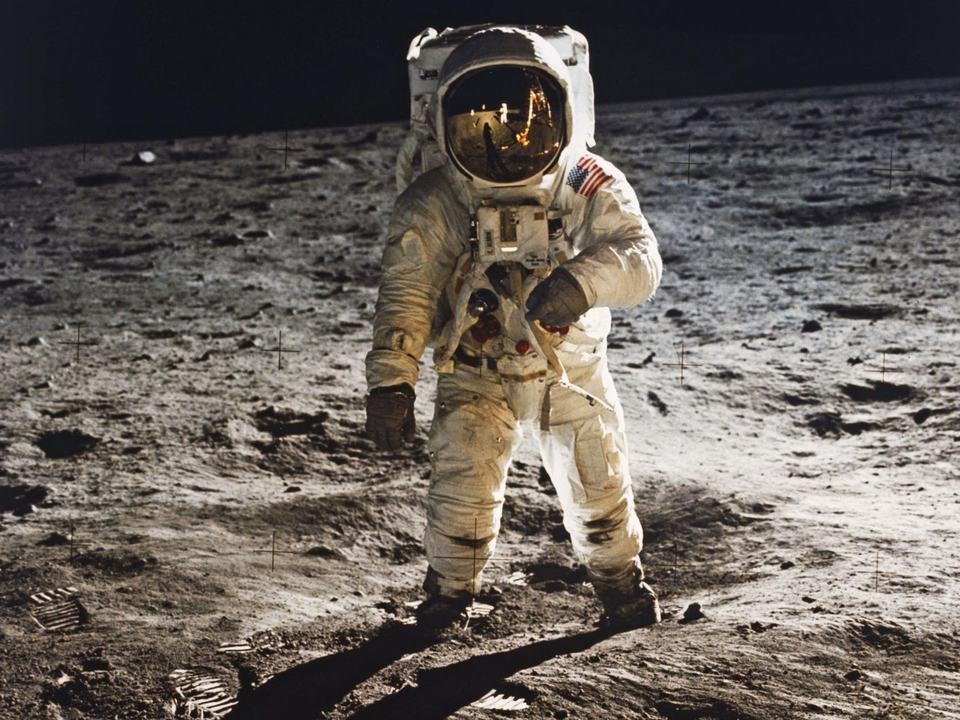
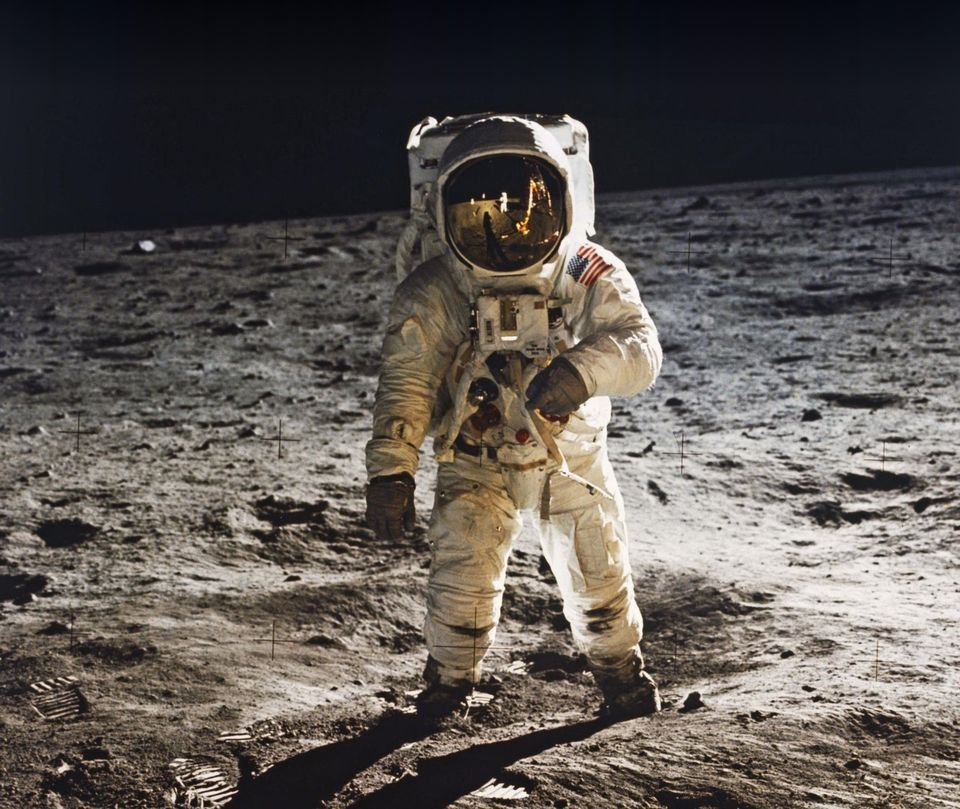
scoring changes

diff --git a/index.html b/index.html
@@ -93,7 +93,7 @@ function spend(){
  const caps=S.caps||[0,90,40],exp=S.budget*(new Date().getDay()+1)/7,pace=tot<=exp?'On pace · '+money(exp-tot)+' of slack today':money(tot-exp)+' ahead of pace';const cn={};S.spend.forEach(x=>{const k=x.t.toLowerCase();cn[k]=(cn[k]||0)+1});const top=Object.keys(cn).filter(t=>!/['"]/.test(t)).sort((a,b)=>cn[b]-cn[a]).slice(0,5).map(t=>`<button class="chip" onclick="document.getElementById('t').value='${esc(t)}';sugCat('${esc(t)}')">${esc(t)}</button>`).join('');
  const cats=CATS.map(([n,c],i)=>{const v=wk.filter(x=>x.c===n).reduce((s,x)=>s+x.a,0),cp=caps[i];return`<div class="item"><div class="row"><span><i class="dot" style="background:${c}"></i>${sn(n)}</span><span><b>${money(v)}</b>${i?` / <input class="kg" type="number" value="${cp}" onchange="S.caps=S.caps||[0,90,40];S.caps[${i}]=+this.value;save();render()">`:''}</span></div>${i?`<div class="bar ${v>cp?'over':''}" style="height:6px;margin:6px 0 0"><i style="width:${Math.min(100,v/cp*100)}%"></i></div>`:''}</div>`}).join('');
  const rec=[...S.spend].sort((x,y)=>y.d.localeCompare(x.d)).slice(0,15).map(x=>`<div class="item row"><span><b>${esc(x.t)}</b><br><span class="mu">${x.d} · ${sn(x.c)}</span></span><span>${money(x.a)}<button class="x" onclick="del('spend','${x.id}')">×</button></span></div>`).join('');
- return`${hero('hero-spend.jpg','960/720','Spending',null,.8,'b',36)}<div class="sub">Week ${a} – ${b} · Sun–Sat</div>
+ return`${hero('hero-spend.jpg','960/809','Spending',null,.82,'b')}<div class="sub">Week ${a} – ${b} · Sun–Sat</div>
  <div class="card"><div class="mu">This week</div><div class="big">${money(tot)}</div><div class="bar ${rem<0?'over':''}"><i style="width:${Math.min(100,tot/S.budget*100)}%"></i></div><div class="row mu"><span>${rem>=0?money(rem)+' left':money(-rem)+' over'}</span><span>of ${money(S.budget)}</span></div><div class="mu">${pace}</div></div>
  <div class="card row"><div><div class="mu">Balance</div><div class="big">${money(S.start-all)}</div></div><div style="text-align:right"><div class="mu">Frivolous ratio</div><div class="big">${all?pc(fr/all):'0%'}</div></div></div>
  <div class="card"><b>Weekly category caps</b>${cats}</div>
@@ -140,17 +140,18 @@ setInterval(()=>{const el=document.getElementById('lf');if(el)el.textContent=liv
 function yT(v){const y=ydate(today);(S.food[y]=S.food[y]||{}).dt=v;save();render()}
 function fhManual(v){const e=(S.food[today]=S.food[today]||{});e.fm=v!=='';e.fh=v===''?undefined:+v;save();render()}
 /* FAITH */
-const H=[['rise','Arise 6:30 AM','w'],['ret','Retire 10:30 PM','c'],['plan','Daily planning','c'],['jrn','Journaling','c'],['pers','Personal scripture (≥30m)','m',30],['comp','Companion study (≥30m)','m',30],['fs','Family scripture','c'],['fp','Family prayer','c'],['lang','Language study','m',1],['gtr','Guitar','m',1]];
-const CORE=['rise','pers','comp','fp'],wt=h=>CORE.includes(h[0])?2:1,WT=H.reduce((s,h)=>s+wt(h),0);
-/* wake: full credit at/before 6:30, linear to 0 at 8:00, bonus (up to 1 pt) for waking before 6:30 (max at 5:30) */
+const H=[['rise','Arise 6:30 AM','w'],['ret','Retire 10:30 PM','c'],['plan','Daily planning','c'],['jrn','Journaling','c'],['pers','Personal study','m',30],['comp','Companion study','c'],['fs','Family scripture','c'],['fp','Family prayer','c'],['skill','Skills','s',30]];
+const CORE=['rise','fs','fp'],wt=h=>CORE.includes(h[0])?2:1,WT=H.reduce((s,h)=>s+wt(h),0);
 const WM=e=>{const m=/^(\d{1,2}):(\d{2})$/.exec((e&&e.wk)||'');return m?(+m[1])*60+(+m[2]):null};
 const wakeFrac=e=>{e=e||{};const w=WM(e);return w==null?(e.rise?1:0):w>=480?0:w<=390?1:(480-w)/90};
 const wakeBonus=e=>{const w=WM(e);return w==null||w>=390?0:Math.min(1,(390-w)/60)};
-/* mental diet: net (uplifting - distracting) minutes; 1 pt per 60 net min, positive capped at 3 pts, negative uncapped */
 const MD_PER_MIN=1/60,MD_CAP=3;
 const mdPts=e=>{e=e||{};const n=((+e.up||0)-(+e.dis||0))*MD_PER_MIN;return n>0?Math.min(n,MD_CAP):n};
-const hd=(e,h)=>h[2]==='w'?wakeFrac(e)>=1:h[2]==='c'?!!e[h[0]]:(+e[h[0]]||0)>=h[3];
-const pts=e=>{e=e||{};return H.reduce((s,h)=>s+(h[2]==='w'?wt(h)*wakeFrac(e):hd(e,h)?wt(h):0),0)+wakeBonus(e)+mdPts(e)};
+const mn=(e,h)=>h[2]==='s'?(+e.lang||0)+(+e.gtr||0):(+e[h[0]]||0);
+const hd=(e,h)=>h[2]==='w'?wakeFrac(e)>=1:h[2]==='c'?!!e[h[0]]:mn(e,h)>=h[3];
+/* study/skills: partial credit up to 30 min, then up to +0.5 pt extra by 60 min */
+const hp=(e,h)=>h[2]==='w'?wt(h)*wakeFrac(e):h[2]==='c'?(hd(e,h)?wt(h):0):wt(h)*Math.min(mn(e,h)/h[3],1)+.5*Math.min(Math.max(mn(e,h)-h[3],0)/30,1);
+const pts=e=>{e=e||{};return H.reduce((s,h)=>s+hp(e,h),0)+wakeBonus(e)+mdPts(e)};
 const dayPct=e=>Math.max(0,Math.min(1,pts(e)/WT));
 function wakeNow(){setV('faith','wk',nowT())}
 function faith(){
@@ -158,16 +159,14 @@ function faith(){
  const logged=h=>keys.filter(d=>hd(F[d],h)).length,sum=f=>keys.reduce((s,d)=>s+(+F[d][f]||0),0);
  const el=Math.min(54,Math.max(1,Math.round((new Date(today)-new Date('2026-10-05'))/864e5)+1)),tot=keys.reduce((s,d)=>s+dayPct(F[d]),0),adh=tot/el,adhF=tot/54;
  const chips=H.filter(h=>h[2]==='c').map(h=>`<button class="chip ${e[h[0]]?'on':''}" onclick="setV('faith','${h[0]}',${!e[h[0]]})">${e[h[0]]?'✓ ':''}${h[1]}</button>`).join('');
- const mins=[['pers','Personal study (min)'],['comp','Companion study (min)'],['lang','Language (min)'],['gtr','Guitar (min)'],['up','Uplifting media (min)'],['dis','Distracting media (min)']].map(([f,l])=>`<div><div class="mu">${l}</div>${num('faith',f,'0')}</div>`).join('');
+ const mins=[['pers','Personal study (min)'],['lang','Language (min)'],['gtr','Guitar (min)'],['up','Uplifting media (min)'],['dis','Distracting media (min)']].map(([f,l])=>`<div><div class="mu">${l}</div>${num('faith',f,'0')}</div>`).join('');
  const bars=H.map(h=>{const l=logged(h);return`<div class="item"><div class="row"><span>${h[1]}</span><span class="mu">${l}/${el}</span></div><div class="bar" style="margin:6px 0 0;height:6px"><i style="width:${Math.min(100,l/el*100)}%"></i></div></div>`}).join('');
- const wf=wakeFrac(e),wb=wakeBonus(e),mp=mdPts(e),net=(+e.up||0)-(+e.dis||0);
- const wakeRow=`<div class="item row" style="border-top:0"><span>Arise · <span class="mu">${WM(e)!=null?(wf>=1?'full credit':wf>0?Math.round(wf*100)+'% credit':'no credit')+(wb>0?' + early bonus':''):'full by 6:30 · none at 8:00'}</span></span><span><button class="chip" onclick="wakeNow()">Now</button> <input type="time" class="kg" style="width:112px!important" value="${esc(e.wk)}" onchange="setV('faith','wk',this.value)"></span></div>`;
- const mdNote=`Mental diet today: ${net>0?'+':''}${net} net min → ${mp>=0?'+':''}${(mp/WT*100).toFixed(0)}% of the day. Distracting time cancels uplifting, then subtracts. Day caps at 100%.`;
+  const wakeRow=`<div class="item row" style="border-top:0;flex-wrap:nowrap"><span>Arise</span><span style="white-space:nowrap"><button class="chip" onclick="wakeNow()">Now</button> <input type="time" class="kg" style="width:112px!important" value="${esc(e.wk)}" onchange="setV('faith','wk',this.value)"></span></div>`;
  const D=days7();
- return`${hero('hero-faith.jpg','620/400','Faith &amp; Discipleship',null,.95,'b',36)}<div class="sub">“Arise early, that your bodies and your minds may be invigorated.” — D&C 88:124</div>
- <div class="card"><div class="mu">Today</div><div class="big">${pc(dayPct(e))}</div><div class="bar"><i style="width:${dayPct(e)*100}%"></i></div>${chart(D.map(d=>dayPct(F[d])),1,v=>v>=.8,.8)}<div class="mu" style="margin-top:6px">Goal ≥80% · core habits (rise, study, family prayer) count double</div></div>
- <div class="card"><b>Check off today</b>${wakeRow}<div class="chips">${chips}</div><div class="f" style="margin-top:12px">${mins}</div><div class="mu" style="margin-top:8px">${mdNote}</div><input placeholder="Media topics / notes" value="${esc(e.n)}" onchange="setV('faith','n',this.value)" style="margin-top:8px"></div>
- <div class="card"><b>54-day challenge</b><div class="f mu" style="margin-top:8px"><span>Since start <b>${(adh*100).toFixed(0)}%</b></span><span>Full 54 days <b>${(adhF*100).toFixed(0)}%</b></span><span>Scripture <b>${((sum('pers')+sum('comp'))/60).toFixed(1)}h</b></span><span>Skills <b>${((sum('lang')+sum('gtr'))/60).toFixed(1)}h</b></span><span>Uplifting <b>${(sum('up')/60).toFixed(1)}h</b></span><span>Distracting <b>${(sum('dis')/60).toFixed(1)}h</b></span></div></div>
+ return`${hero('hero-faith.jpg','620/457','Faith &amp; Discipleship',null,.955,'b')}<div class="sub">“Arise early, that your bodies and your minds may be invigorated.” — D&C 88:124</div>
+ <div class="card"><div class="mu">Today</div><div class="big">${pc(dayPct(e))}</div><div class="bar"><i style="width:${dayPct(e)*100}%"></i></div>${chart(D.map(d=>dayPct(F[d])),1,v=>v>=.8,.8)}</div>
+ <div class="card"><b>Check off today</b>${wakeRow}<div class="chips">${chips}</div><div class="f" style="margin-top:12px">${mins}</div><input placeholder="Media topics / notes" value="${esc(e.n)}" onchange="setV('faith','n',this.value)" style="margin-top:8px"></div>
+ <div class="card"><b>54-day challenge</b><div class="f mu" style="margin-top:8px"><span>Since start <b>${(adh*100).toFixed(0)}%</b></span><span>Full 54 days <b>${(adhF*100).toFixed(0)}%</b></span><span>Scripture <b>${((sum('pers')+keys.reduce((s,d)=>s+(typeof F[d].comp==='number'?F[d].comp:0),0))/60).toFixed(1)}h</b></span><span>Skills <b>${((sum('lang')+sum('gtr'))/60).toFixed(1)}h</b></span><span>Uplifting <b>${(sum('up')/60).toFixed(1)}h</b></span><span>Distracting <b>${(sum('dis')/60).toFixed(1)}h</b></span></div></div>
  <div class="card"><b>Habits</b>${bars}</div>`}
 /* FITNESS */
 const WK="2026-09-26|Upper body|174|benchpress:40:3x10,dumbbell rows:10:3x10,overhead press:10:3x10,pull-ups:0:3x8,dumbbell curls:10:3x10,tricep extensions:10:3x10#2026-09-30|Legs|172|barbell squats:50:3x10,RDL:50:3x10,dumbbell lunges:10:3x10,calf raises:0:3x10,hanging leg raises:0:3x10#2026-10-01|Upper body|172|incline press:10:3x10,dumbbell rows:10:3x10,lateral raises:3:3x10,chin-ups:0:3x8,hammer curls:10:3x10,dips:0:3x8#2026-10-05|Legs|174|deadlifts:10:3x5,bulgarian split squats:10:3x10,goblet squats:10:3x10,calf raises:0:3x10,weighted plank:5:3x1min,hanging windshield wipers:0:3x10#2026-10-06|Upper body|174|benchpress:50:3x10,dumbbell rows:12:3x10,overhead press:10:3x10,pull-ups:0:3x8,dumbbell curls:10:3x10,tricep extensions:12:3x10#2026-10-08|Upper body|175|benchpress:50:3x10,incline press:12:3x8,overhead press:12:3x8,dips:0:3x8,lateral raises:4:3x10,tricep extensions:12:3x10#2026-10-09|Legs|174|barbell squats:50:3x5,deadlifts:50:3x5,bulgarian split squats:10:3x10,calf raises:0:3x10,hanging leg raises:0:3x10#2026-10-13|Upper body|173|pull-ups:0:3x8,dumbbell rows:12:3x8,RDL:50:3x8,lateral raises:4:3x10,dumbbell curls:12:3x10,hanging windshield wipers:0:3x10#2026-10-14|Upper body||incline press:12:3x8,benchpress:50:3x8,chin-ups:0:3x8,dips:0:3x8,overhead press:12:3x8,weighted plank:5:3x1min";
@@ -226,7 +225,7 @@ function fit(){
 /* TODAY */
 const go=t=>{S.tab=t;save();render();scrollTo(0,0)};
 const NUMK=new Set(['fh','pers','comp','lang','gtr','up','dis','bw','tgt','mi','kg','a']),BOOLK=new Set(['sn','fm','bx','lx','dx','rise','ret','plan','jrn','fs','fp']);
-const cv=(k,v)=>BOOLK.has(k)?v==='true':NUMK.has(k)?(v===''?undefined:+v):v;
+const cv=(k,v)=>k==='comp'?(v==='true'?true:v==='false'?false:(+v||0)):BOOLK.has(k)?v==='true':NUMK.has(k)?(v===''?undefined:+v):v;
 const qc=v=>{v=String(v);return/[",\n\r]/.test(v)?'"'+v.replace(/"/g,'""')+'"':v};
 function toCSV(){const R=[['table','date','field','value']],add=(t,d,f,v)=>{if(v!==undefined&&v!==null&&!(typeof v==='number'&&isNaN(v)))R.push([t,d,f,v])};
  add('settings','','start',S.start);add('settings','','budget',S.budget);(S.caps||[]).forEach((c,i)=>add('settings','','cap'+i,c));

diff --git a/sw.js b/sw.js
@@ -1,4 +1,4 @@
-const C='dd-v9',A=['./','index.html','manifest.webmanifest','icon-192.png','icon-512.png','icon-180.png','hero-today.jpg','hero-spend.jpg','hero-food.jpg','hero-faith.jpg','hero-fit.jpg'];
+const C='dd-v10',A=['./','index.html','manifest.webmanifest','icon-192.png','icon-512.png','icon-180.png','hero-today.jpg','hero-spend.jpg','hero-food.jpg','hero-faith.jpg','hero-fit.jpg'];
 self.addEventListener('install',e=>e.waitUntil(caches.open(C).then(c=>c.addAll(A)).then(()=>self.skipWaiting())));
 self.addEventListener('activate',e=>e.waitUntil(caches.keys().then(k=>Promise.all(k.filter(x=>x!==C).map(x=>caches.delete(x)))).then(()=>clients.claim())));
 self.addEventListener('fetch',e=>{if(e.request.method!=='GET'||new URL(e.request.url).hostname.endsWith('supabase.co'))return;e.respondWith(caches.match(e.request).then(r=>{const f=fetch(e.request).then(res=>{const cp=res.clone();caches.open(C).then(c=>c.put(e.request,cp));return res}).catch(()=>r);return r||f}))});
